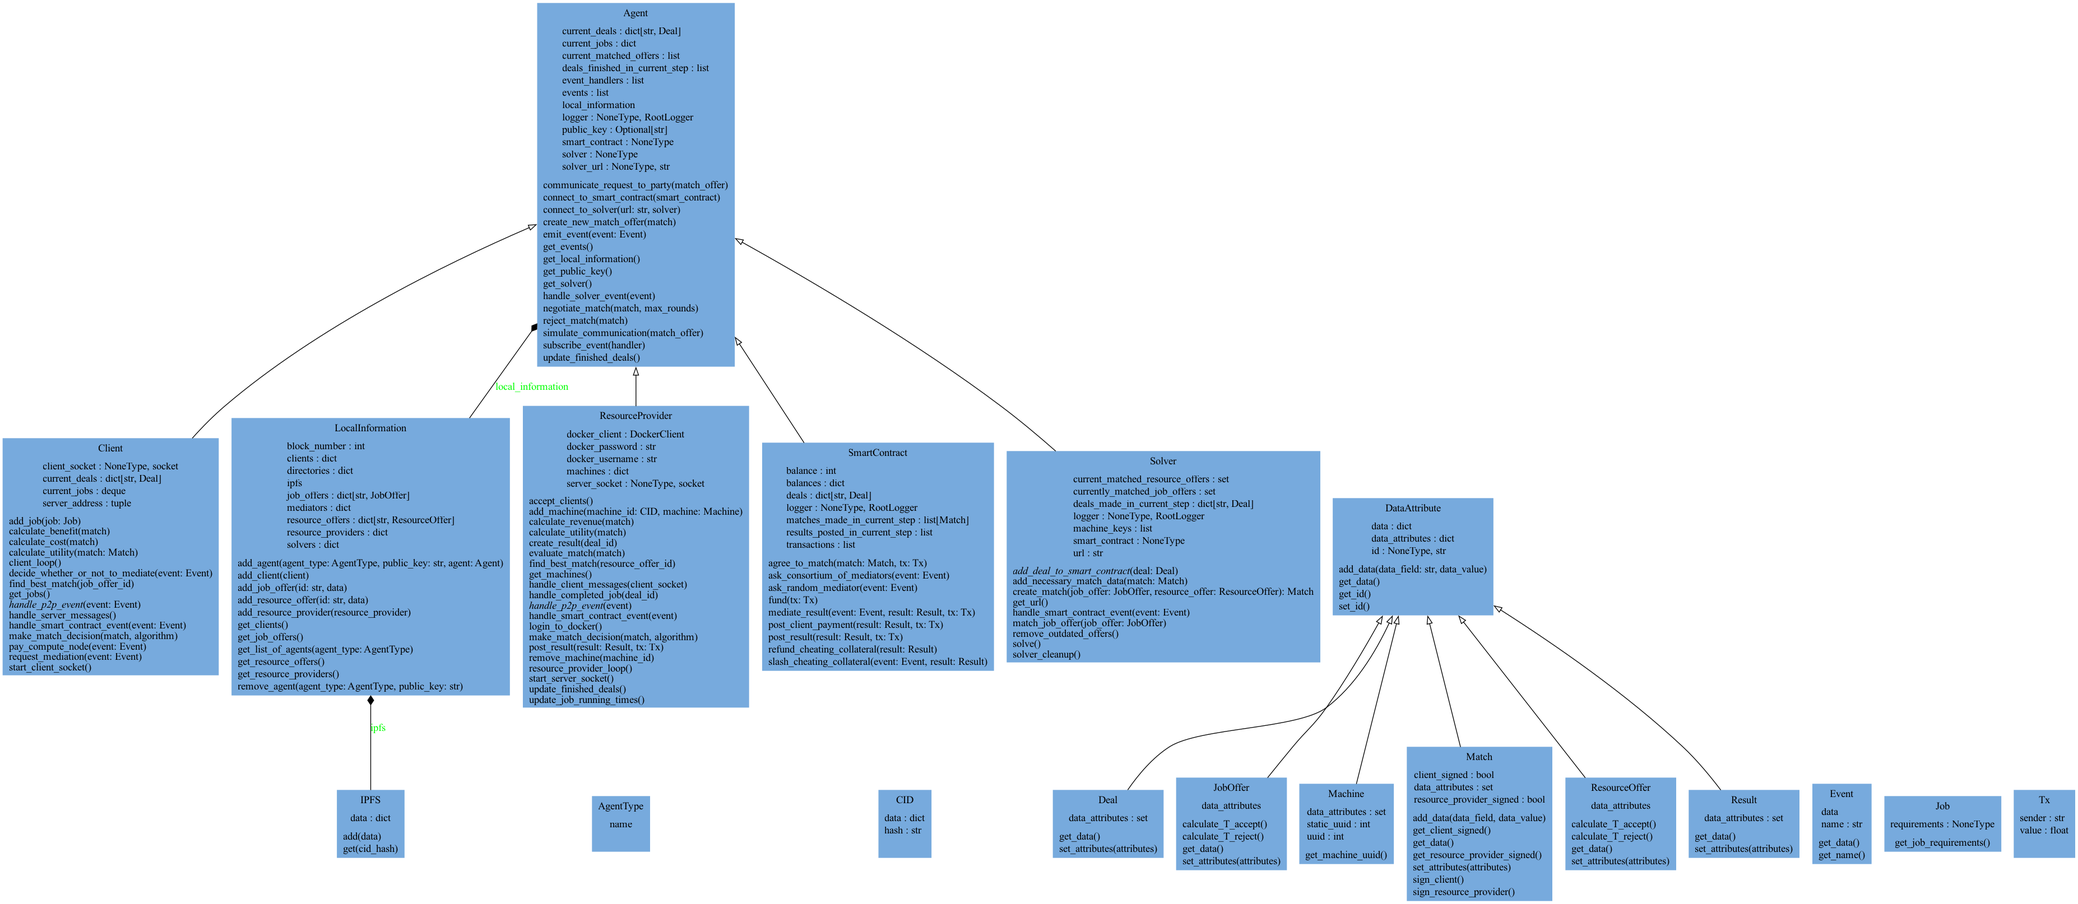
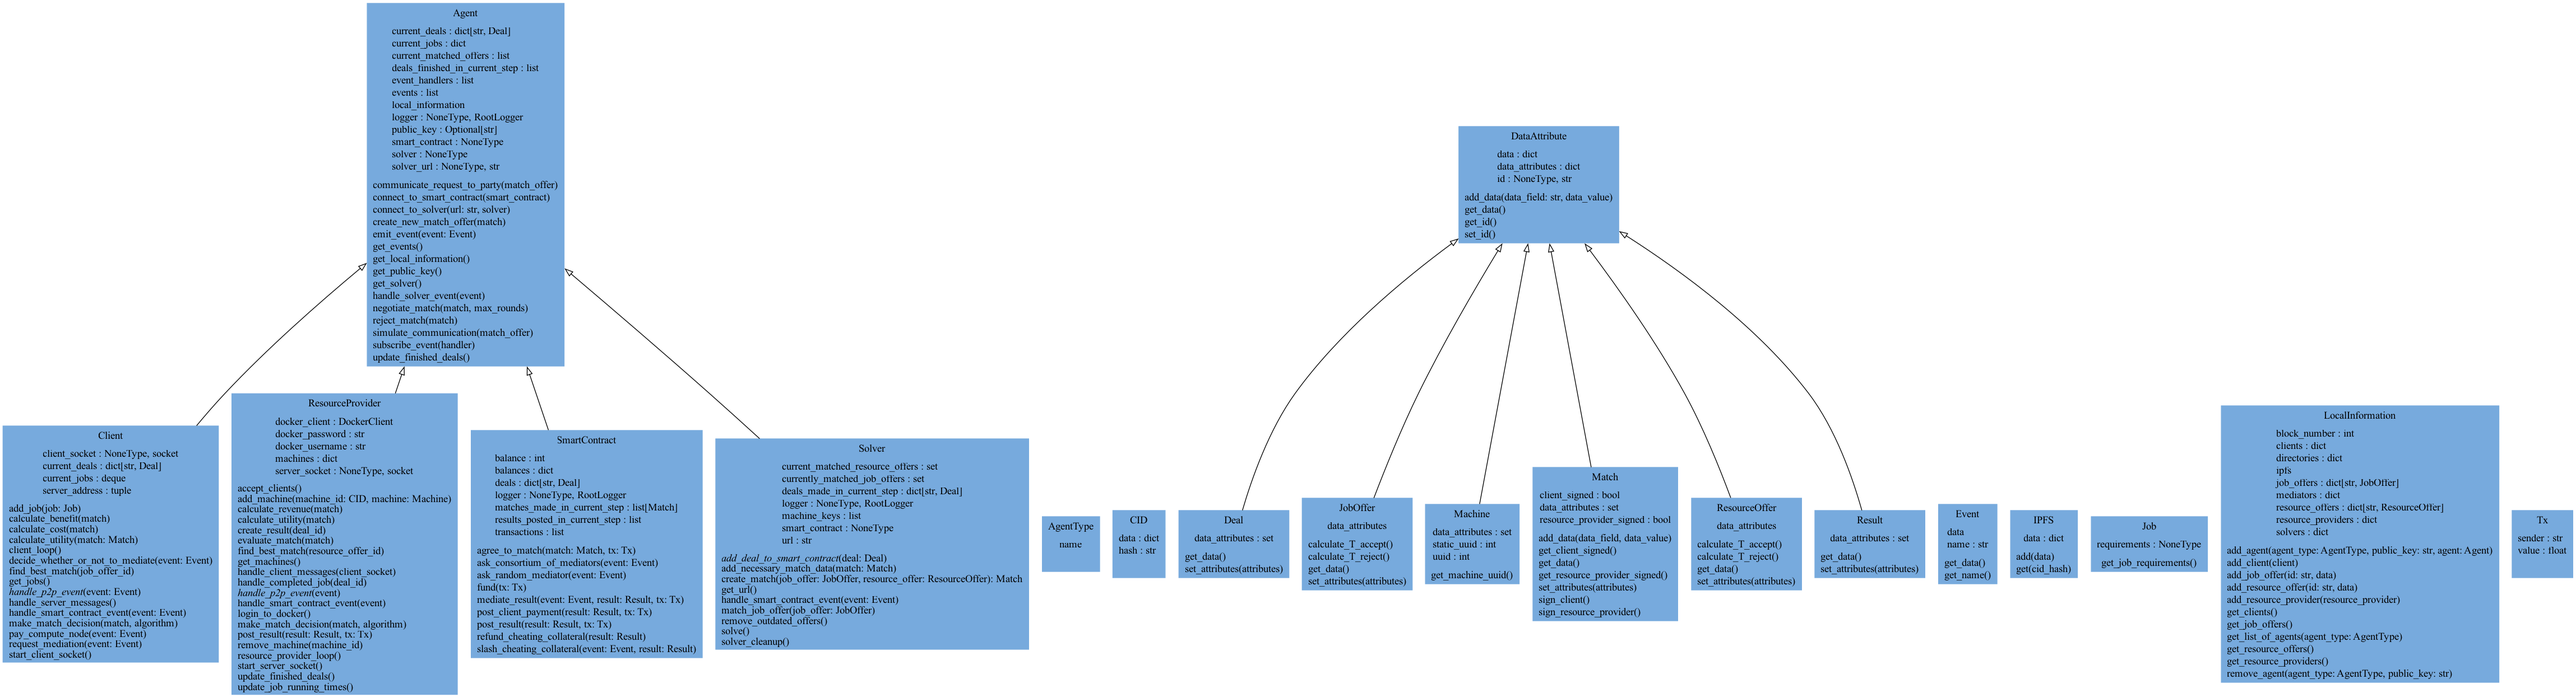
fix: class diagram, closes #36

diff --git a/docs/classes_filter.py b/docs/classes_filter.py
@@ -1,0 +1,13 @@
+"""Filter out .dot file for classes relationship plotting."""
+
+file_path = "docs/img/classes_coophive.dot"
+
+search_string = 'arrowhead="diamond"'
+
+with open(file_path, "r") as file:
+    lines = file.readlines()
+
+filtered_lines = [line for line in lines if search_string not in line]
+
+with open(file_path, "w") as file:
+    file.writelines(filtered_lines)
